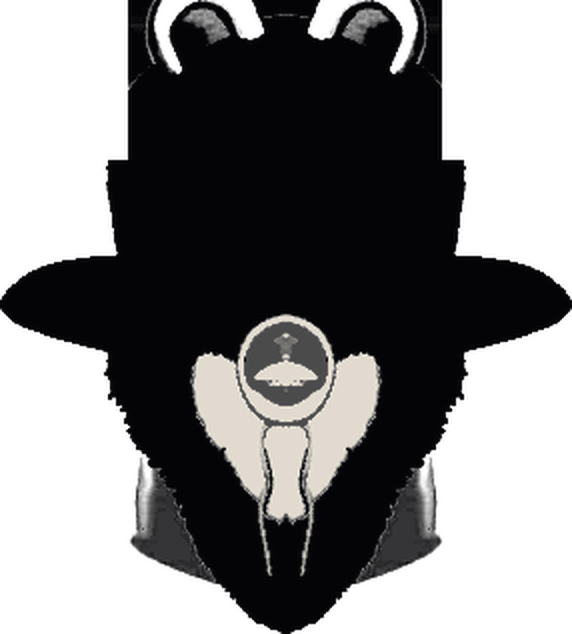
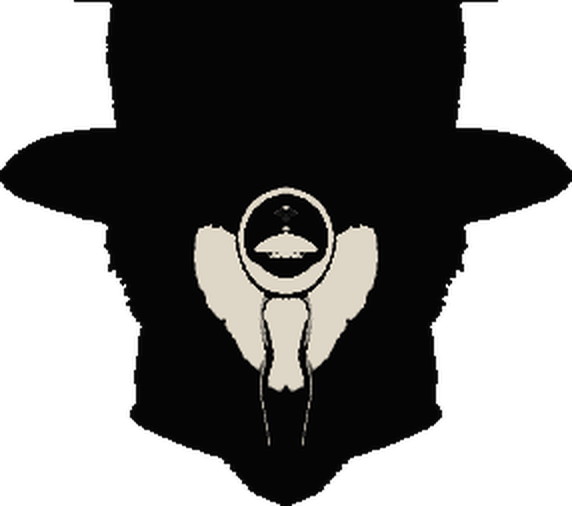
Delete the rat and Lautrec, and redraw the found images as hard ink
The rat SVG and every Toulouse-Lautrec attempt are gone, along with the
augment script that only existed to tint them.

The two remaining images were soft, semi-transparent and blurred, which
read as dirt on the screen next to the tree's crisp line-work. Both are
now binary alpha with no blur: the man is a solid black mass with a bone
face, the larva a hard silhouette with its eye punched out. The man is
also raised so the viewport crops his crown, instead of the flat slab
that cropping the window beam left behind.

diff --git a/guhub/src/pages/Noria.tsx b/guhub/src/pages/Noria.tsx
@@ -64,11 +64,9 @@ const SECTIONS: { key: string; label: string; body: ReactNode }[] = [
 
 // Where the larvae sit on the tree. Hand-placed so they read as clinging.
 const GRUBS = [
-  { left: "43%", top: "34%", w: 128, rot: -22, flip: 1, delay: "0s", dur: "9s" },
-  { left: "57%", top: "48%", w: 96, rot: 28, flip: -1, delay: "-3s", dur: "11s" },
-  { left: "36%", top: "60%", w: 82, rot: -46, flip: 1, delay: "-6s", dur: "13s" },
-  { left: "62%", top: "26%", w: 68, rot: 14, flip: -1, delay: "-1.5s", dur: "10s" },
-  { left: "48%", top: "72%", w: 108, rot: 6, flip: 1, delay: "-8s", dur: "12s" },
+  { left: "44%", top: "36%", w: 104, rot: -20, flip: 1, delay: "0s", dur: "9s" },
+  { left: "58%", top: "52%", w: 78, rot: 26, flip: -1, delay: "-4s", dur: "12s" },
+  { left: "47%", top: "70%", w: 62, rot: 8, flip: 1, delay: "-8s", dur: "14s" },
 ];
 
 export default function Noria() {
@@ -97,23 +95,7 @@ export default function Noria() {
         </g>
       </svg>
 
-      {/* an original gnawing rat, bottom-left near the roots (Rustgnawer's mood) */}
-      <svg className="rat" viewBox="0 0 180 96" aria-hidden>
-        <path d="M28 74 C 6 70 10 54 30 60" fill="none" stroke="#050505" strokeWidth="3.5" strokeLinecap="round" />
-        <g fill="#050505">
-          <path d="M42 78 C 28 72 32 50 56 46 C 82 41 118 46 136 60 C 148 69 145 79 132 81 C 104 85 62 86 42 78 Z" />
-          <path d="M132 60 C 154 55 170 62 167 69 C 164 76 146 75 132 72 Z" />
-          <circle cx="124" cy="50" r="9" />
-          <path d="M62 82 l-3 9 M84 84 l0 9 M110 82 l3 9" fill="none" stroke="#050505" strokeWidth="3.2" strokeLinecap="round" />
-        </g>
-        <circle cx="152" cy="65" r="1.8" fill="#6b0a0a" />
-      </svg>
-
-      {/* Toulouse-Lautrec, Moulin Rouge / La Goulue (1891, public domain), run
-          through the crimson/glitch augmentation to match the page. */}
-      <img className="dancer" src="/art/lautrec_aug.png" alt="" aria-hidden="true" />
-
-      {/* the bowler man, mirrored into one central eye. He breathes behind the tree. */}
+      {/* the bowler man, mirrored into one central eye; he breathes behind the tree */}
       <img className="watcher" src="/art/watcher.png" alt="" aria-hidden="true" />
 
       {/* his larvae, keyed off a trading card, infesting the branches */}

diff --git a/guhub/src/pages/Noria.css b/guhub/src/pages/Noria.css
@@ -59,29 +59,6 @@
   z-index: 2;
 }
 
-.rat {
-  position: fixed;
-  left: 18px;
-  bottom: 14px;
-  width: clamp(120px, 15vw, 190px);
-  height: auto;
-  opacity: 0.95;
-  pointer-events: none;
-  z-index: 2;
-}
-
-.dancer {
-  position: fixed;
-  right: 5vw;
-  top: 28%;
-  width: clamp(120px, 15vw, 230px);
-  height: auto;
-  display: block;
-  transform: rotate(4deg);
-  pointer-events: none;
-  z-index: 2;
-}
-
 .wheel {
   position: fixed;
   right: -70px;
@@ -184,22 +161,18 @@
 .watcher {
   position: fixed;
   left: 50%;
-  bottom: 14vh;
+  bottom: 20vh;
   transform: translateX(-50%);
-  height: 76vh;
+  height: 88vh;
   width: auto;
-  opacity: 0.34;
+  opacity: 0.5;
   z-index: 0;
   pointer-events: none;
-  /* the window beam survived the key at the top; dissolve it instead of
-     cutting, so he fades out of the dark rather than ending on a hard edge */
-  -webkit-mask-image: linear-gradient(to bottom, transparent 8%, rgba(0,0,0,0.35) 26%, #000 44%);
-  mask-image: linear-gradient(to bottom, transparent 8%, rgba(0,0,0,0.35) 26%, #000 44%);
   animation: breathe 13s ease-in-out infinite;
 }
 @keyframes breathe {
-  0%, 100% { opacity: 0.28; transform: translateX(-50%) scale(1); }
-  45% { opacity: 0.52; transform: translateX(-50%) scale(1.02); }
+  0%, 100% { opacity: 0.42; transform: translateX(-50%) scale(1); }
+  45% { opacity: 0.66; transform: translateX(-50%) scale(1.015); }
 }
 
 /* His larvae, clinging to the branches, each twitching on its own clock. */
@@ -208,7 +181,6 @@
   z-index: 3;
   pointer-events: none;
   opacity: 1;
-  filter: drop-shadow(0 3px 7px rgba(0, 0, 0, 0.7)) contrast(1.15);
   animation-name: gnaw;
   animation-iteration-count: infinite;
   animation-timing-function: ease-in-out;
